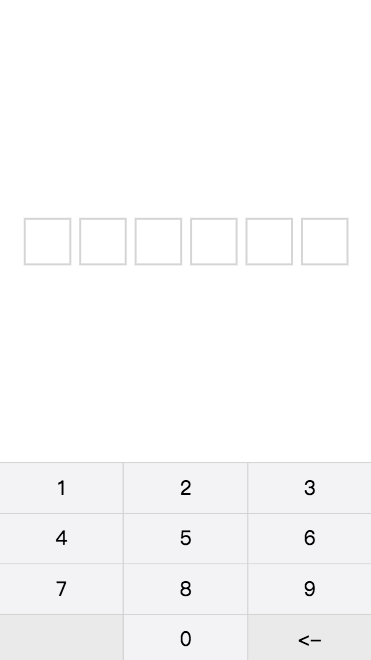
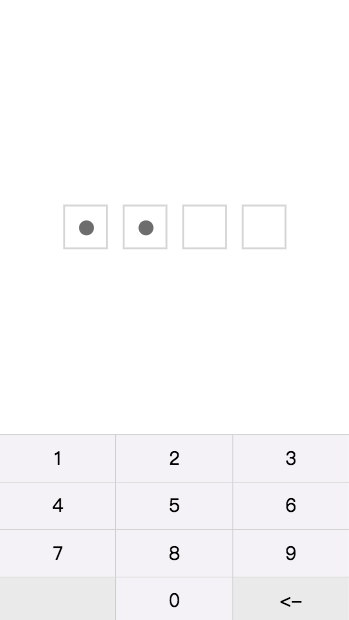
add use demo.

diff --git a/src/App.vue b/src/App.vue
@@ -1,12 +1,24 @@
 <template>
   <div id="app">
-    <vue-number-pwd></vue-number-pwd>
+    <vue-number-pwd 
+      :number="4"
+      @validate="validate"
+      @stepValidate="stepValidate"
+    ></vue-number-pwd>
   </div>
 </template>
 
 <script>
 export default {
-  name: 'app'
+  name: 'app',
+  methods: {
+    validate(pwd){
+      console.log(pwd);
+    },
+    stepValidate(pwd){
+      console.log(pwd);
+    }
+  }
 }
 </script>
 

diff --git a/index.html b/index.html
@@ -2,6 +2,7 @@
 <html lang="en">
   <head>
     <meta charset="utf-8">
+    <meta name="viewport" content="width=device-width,initial-scale=1.0">
     <title>vnp-demo</title>
   </head>
   <body>
